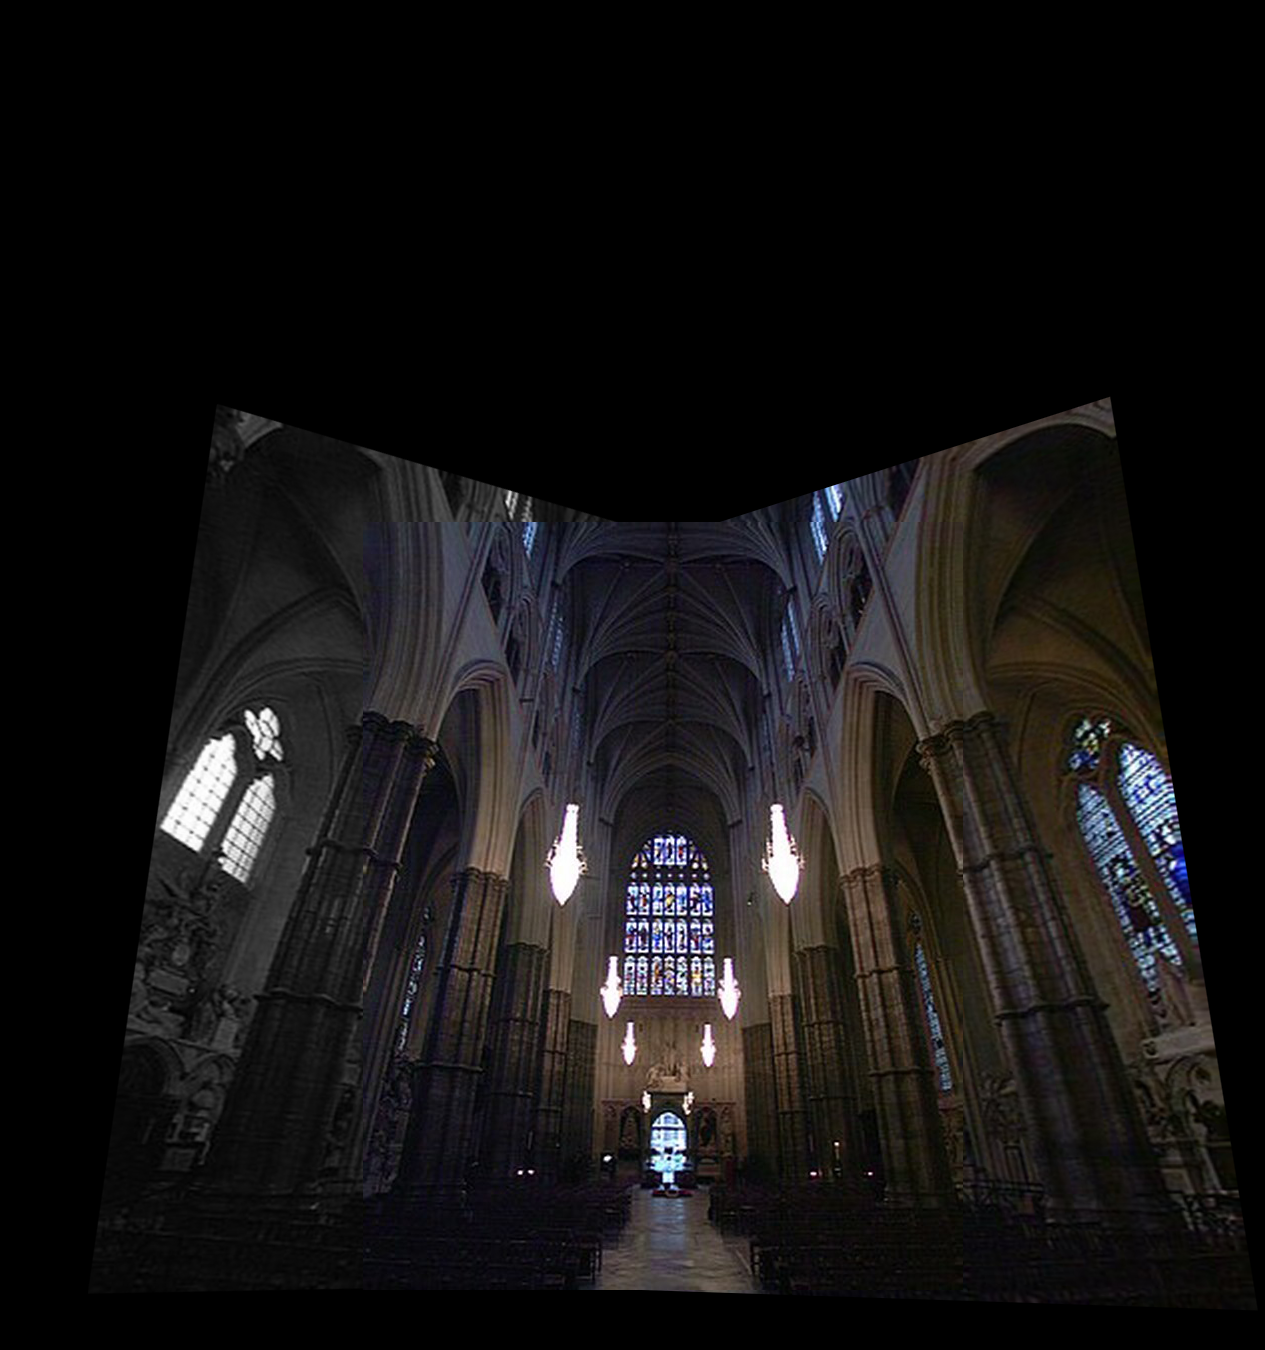
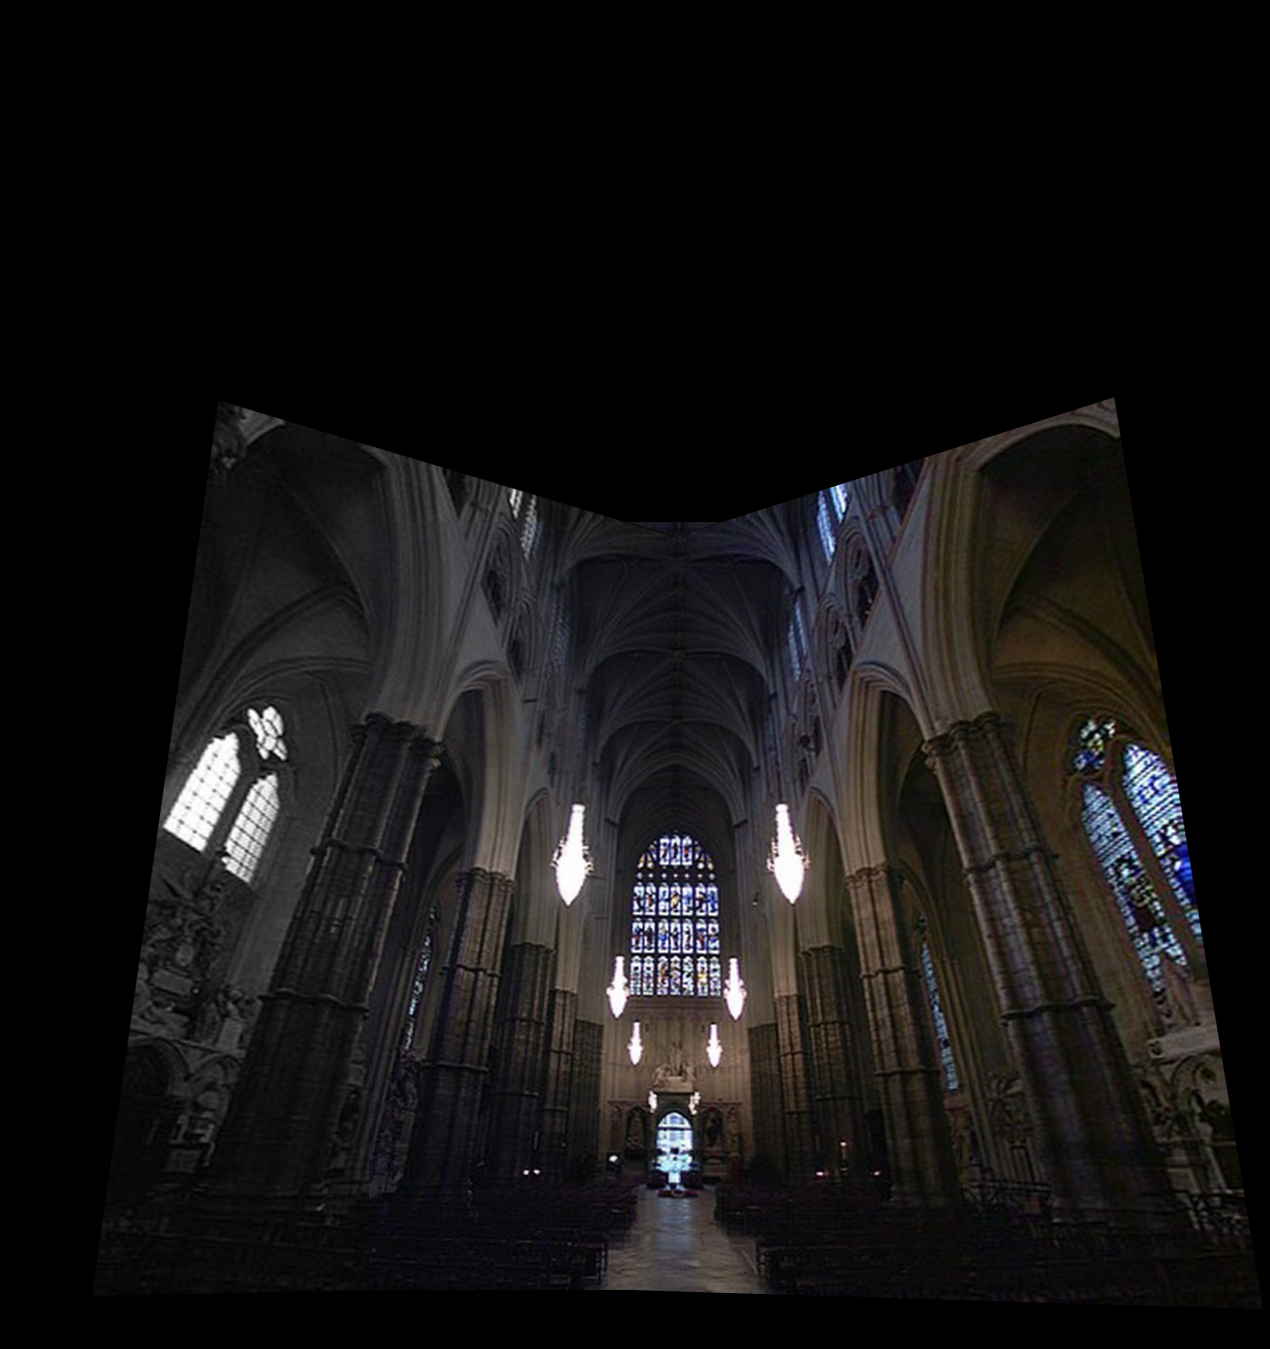
update blending functionality

diff --git a/stitcher_utils.py b/stitcher_utils.py
@@ -105,21 +105,34 @@ def warp_images(img1, img2, H):
     t = [-xmin, -ymin]
     Ht = np.array([[1, 0, t[0]], [0, 1, t[1]], [0, 0, 1]])
 
+    warped_img1 = cv2.warpPerspective(img2, Ht @ H, (xmax - xmin, ymax - ymin))
     warped_img2 = cv2.warpPerspective(img2, Ht @ H, (xmax - xmin, ymax - ymin))
     warped_img2[t[1]:h1 + t[1], t[0]:w1 + t[0]] = img1
+    warped_img = warped_img2
 
-    return warped_img2
+    # create partitions for blending function
+    partition_1 = cv2.warpPerspective(img2, Ht @ H, (xmax - xmin, ymax - ymin))
+    partition_2 = np.zeros(partition_1.shape)
+    partition_2 = partition_2.astype(partition_1.dtype)
+    partition_2[t[1]:h1 + t[1], t[0]:w1 + t[0]] = img1
 
+    return warped_img, partition_1, partition_2
+
+import blendImages
 
 def stitch_two_images(img1, img2):
+    print("stitching two images")
     keypoints1, keypoints2, matches, good, _ = detect_and_match_features(img1, img2)
     H, mask = estimate_homography(keypoints1, keypoints2, good)
-    warped_img = warp_images(img2, img1, H)
+    warped_img, partition_1, partition_2 = warp_images(img2, img1, H)
+    print("warping done")
 
-    return warped_img
+    result, blending_function, gradient, overlap_mask = blendImages.blend_images(partition_1, partition_2)
+
+    return result
 
 
-def blend_images(img1, img2):
-    mask = np.where(img1 != 0, 1, 0).astype(np.float32)
-    blended_img = img1 * mask + img2 * (1 - mask)
-    return blended_img.astype(np.uint8)
+#def blend_images(img1, img2):
+#    mask = np.where(img1 != 0, 1, 0).astype(np.float32)
+#    blended_img = img1 * mask + img2 * (1 - mask)
+#    return blended_img.astype(np.uint8)

diff --git a/blendImages.py b/blendImages.py
@@ -2,6 +2,7 @@ import cv2
 import numpy as np
 import imutils
 
+debugCircles = False
 
 def blend_images(warped_image_1, warped_image_2):
 
@@ -28,8 +29,9 @@ def blend_images(warped_image_1, warped_image_2):
     print("average_position_2: ", average_position_2)
 
     # make green circle at average position of white pixels
-    cv2.circle(warped_image_1, (int(average_position_1[0]), int(average_position_1[1])), 10, (0, 255, 0), -1)
-    cv2.circle(warped_image_2, (int(average_position_2[0]), int(average_position_2[1])), 10, (0, 255, 0), -1)
+    if debugCircles:
+        cv2.circle(warped_image_1, (int(average_position_1[0]), int(average_position_1[1])), 10, (0, 255, 0), -1)
+        cv2.circle(warped_image_2, (int(average_position_2[0]), int(average_position_2[1])), 10, (0, 255, 0), -1)
 
     # get direction vector from average_position_1 to average_position_2
     gradient_direction = average_position_1 - average_position_2
@@ -69,4 +71,4 @@ def blend_images(warped_image_1, warped_image_2):
     print("Blending finished")
 
     result = compiled_image
-    return result, 255* blending_function, 255 * gradient, overlap_mask
+    return result, 255 * blending_function, 255 * gradient, overlap_mask

diff --git a/main.py b/main.py
@@ -1,6 +1,6 @@
 import cv2
 
-from stitcher_utils import estimate_homography, warp_images, blend_images, detect_and_match_features, draw_matches, draw_inliers, \
+from stitcher_utils import estimate_homography, warp_images, detect_and_match_features, draw_matches, draw_inliers, \
     stitch_two_images
 import blendImages
 
@@ -27,12 +27,13 @@ draw_inliers(img1, img2, keypoints1, keypoints2, good, mask, filename="boat_inli
 
 warped_img = warp_images(img2, img1, H)
 
-cv2.imwrite('boat_two_images.png', warped_img)
+cv2.imwrite('boat_two_images.png', warped_img[0])
 
 # Boat 3 images
 img3 = cv2.imread(imagePath + 'boat3.jpg')
 temp_img = stitch_two_images(img1, img3)
 cv2.imwrite('temp.png', temp_img)
+cv2.imwrite('boat_two_temp.png', temp_img)
 
 temp_img = cv2.imread('temp.png')
 warped_img = stitch_two_images(temp_img, img2)
